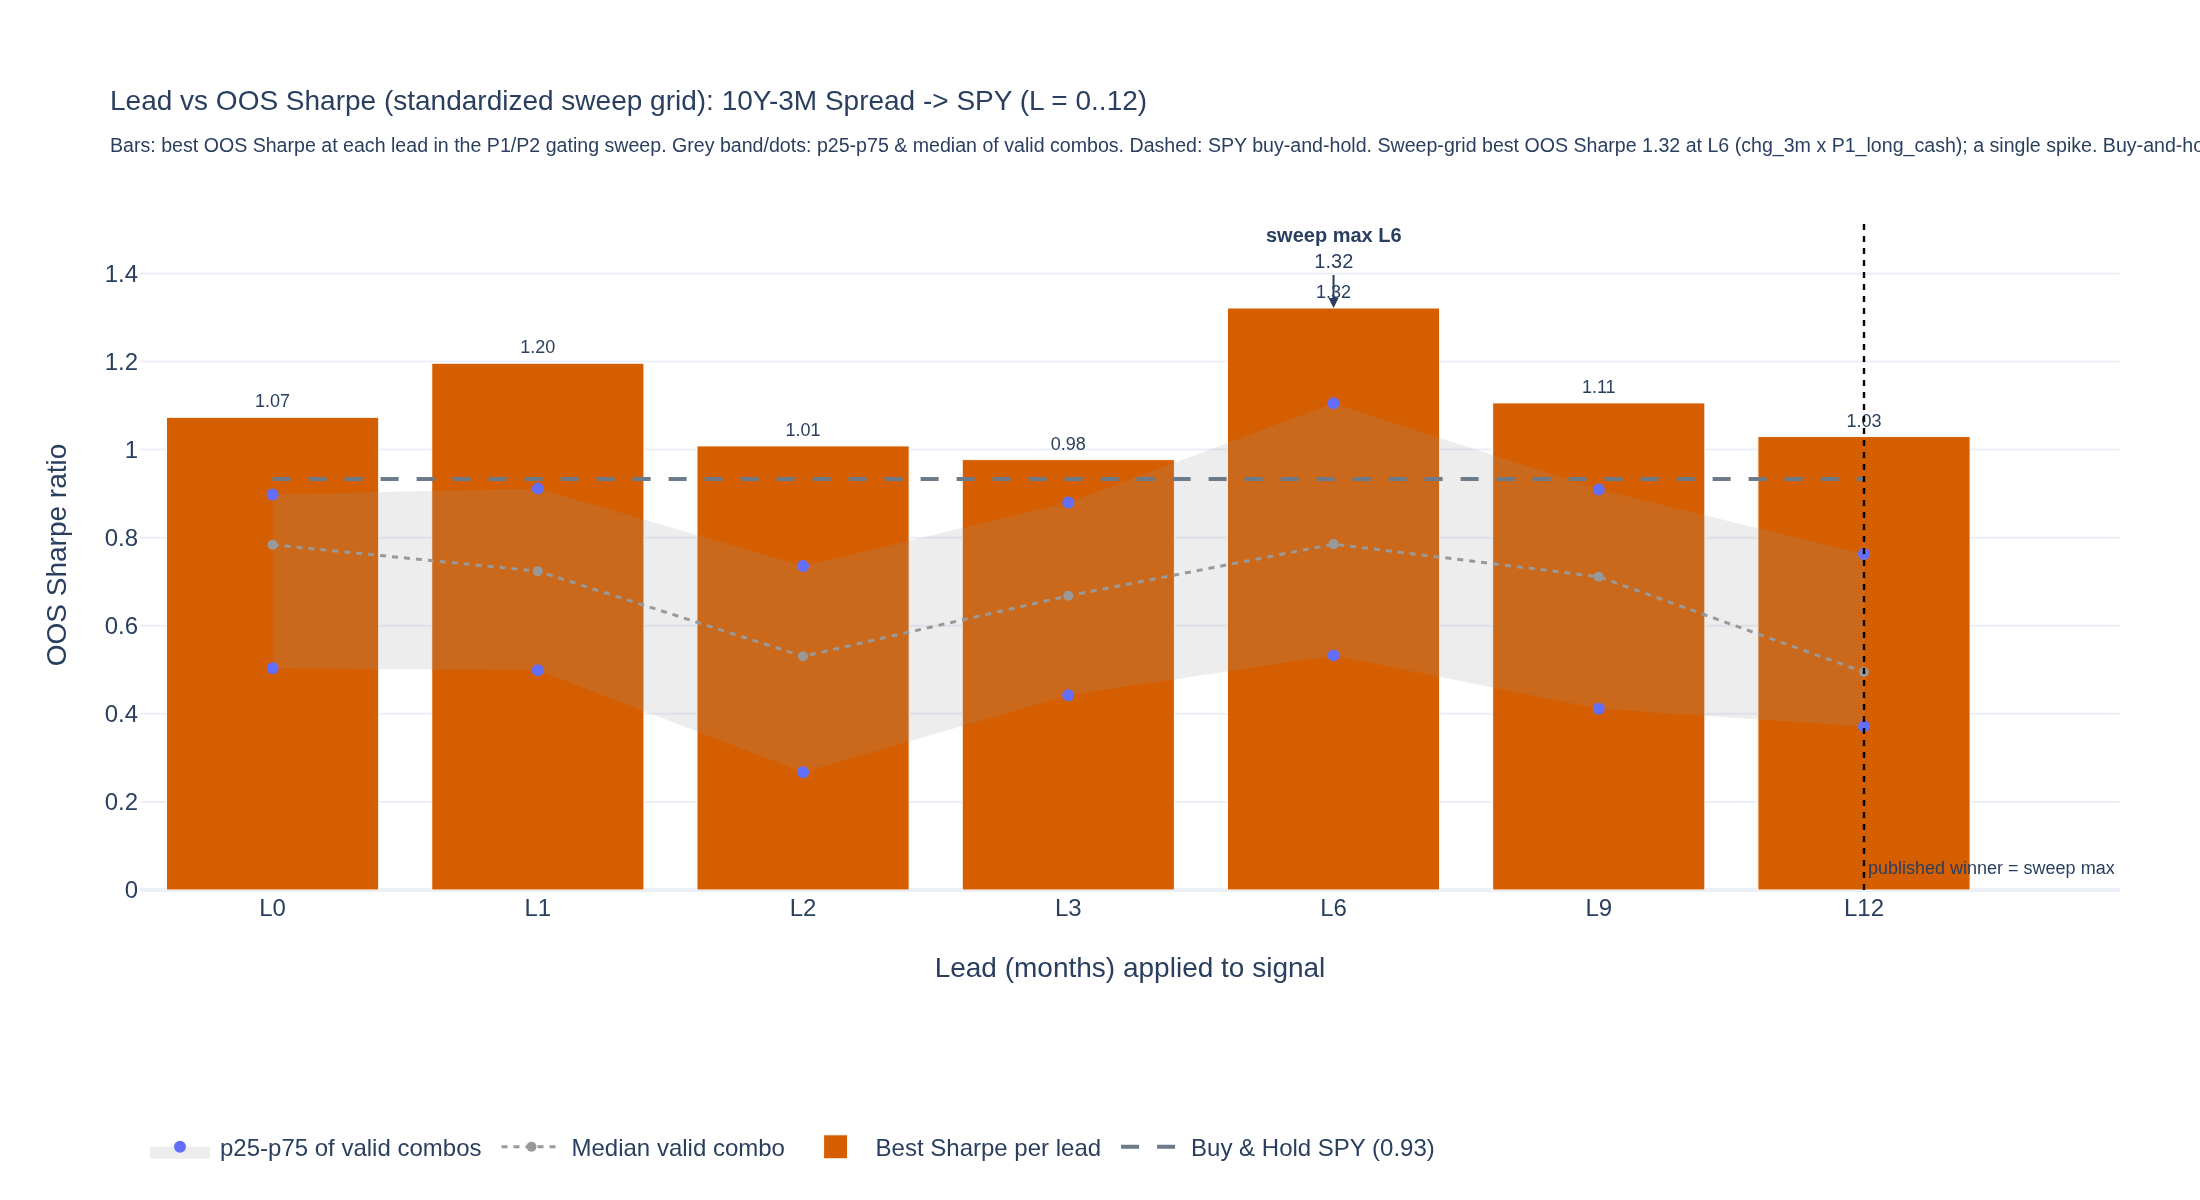
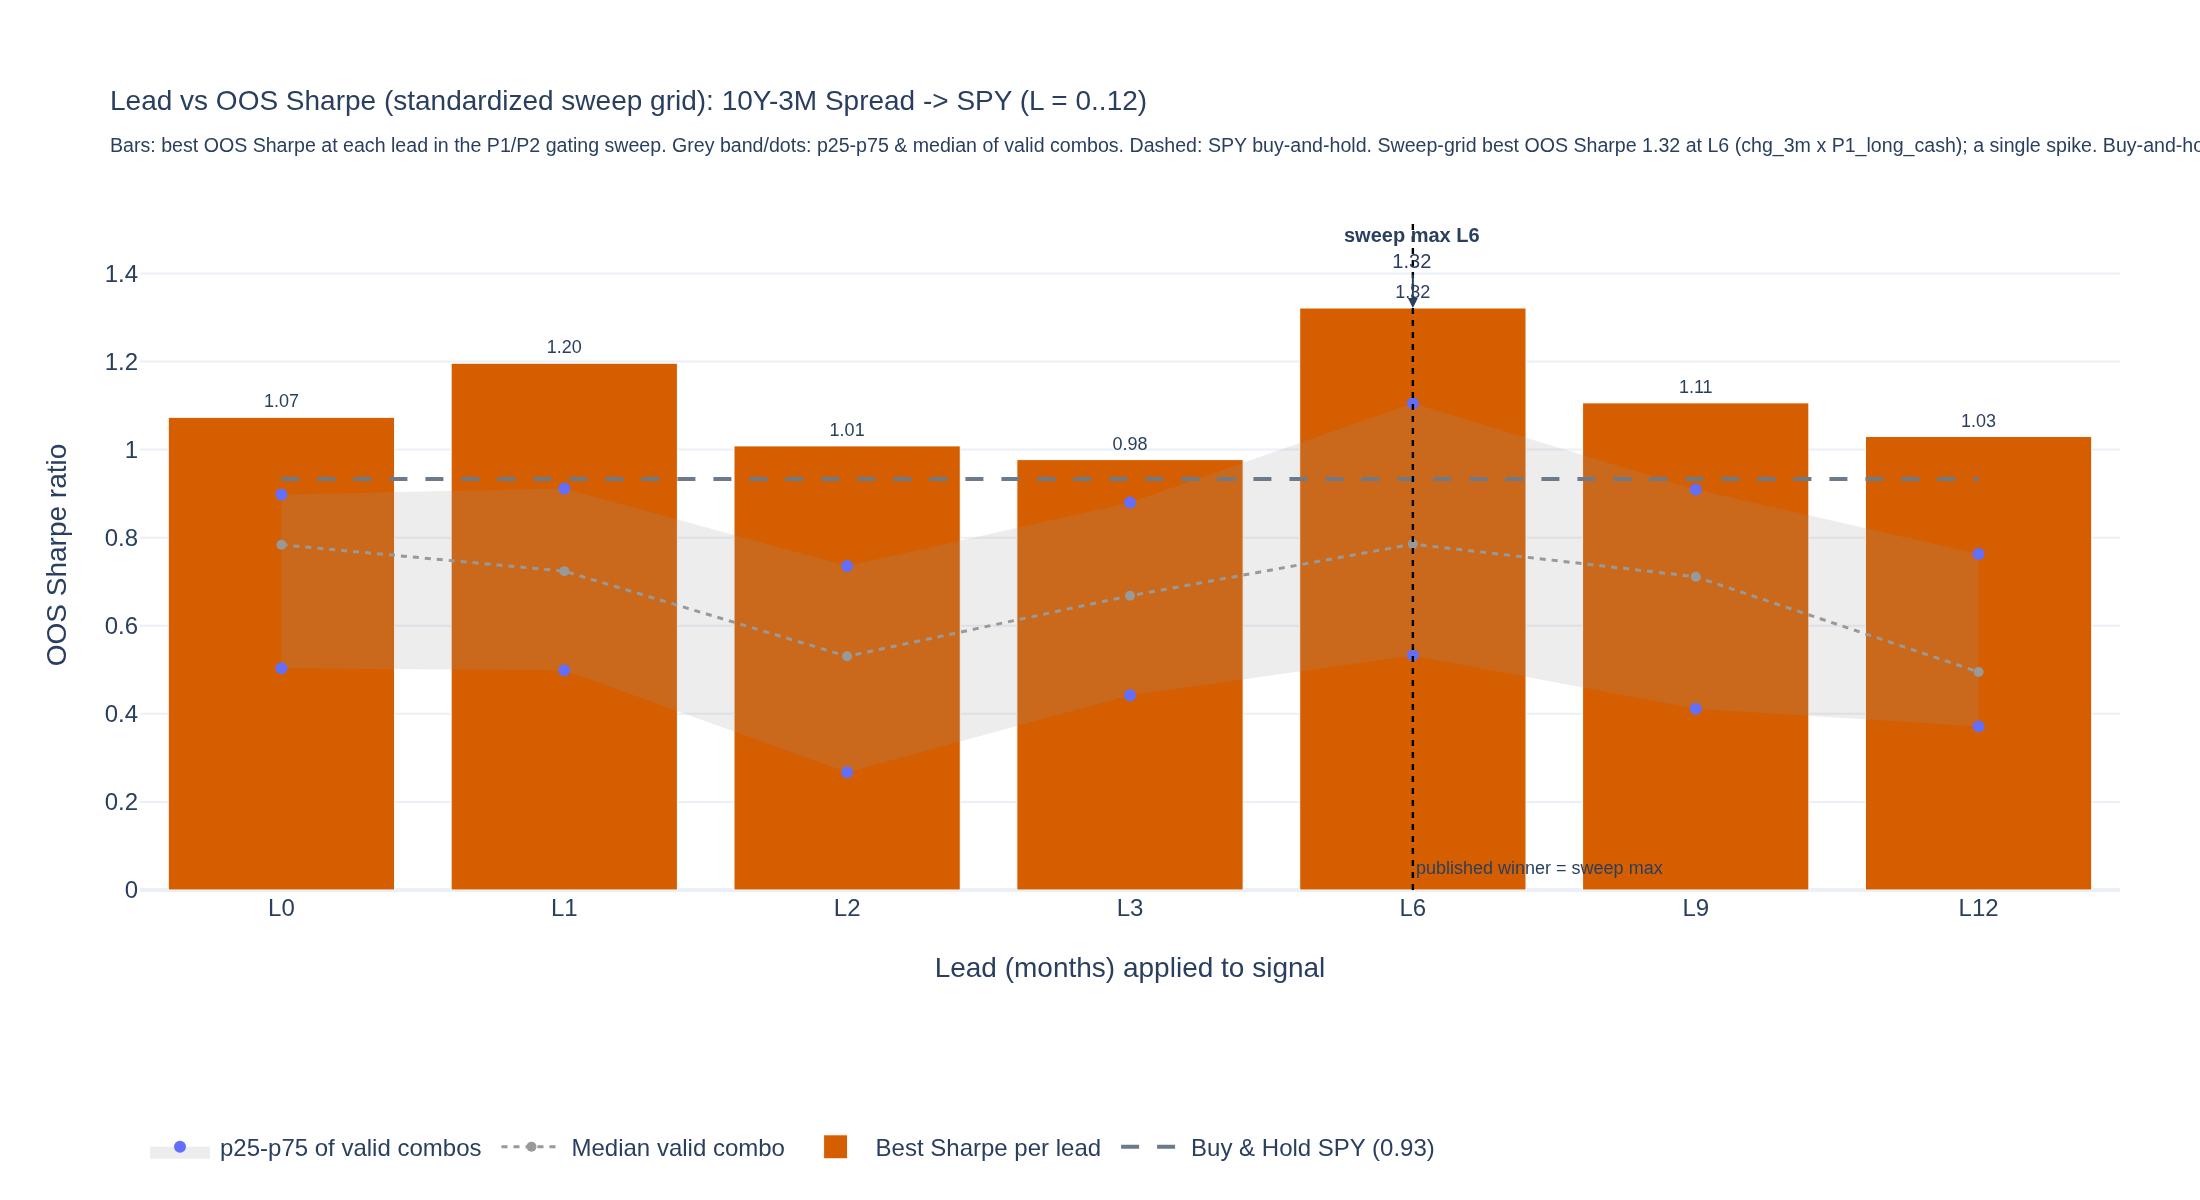
viz(lead-horizon): fix published-winner vline mispositioned on non-contiguous lead grids
Pre-existing categorical-axis bug in scripts/generate_lead_charts.py surfaced during
production verification: add_vline(x=int(win_lead)) anchors a numeric x to the category
INDEX, not the lead value. On t10y3m_spy's coarse grid [0,1,2,3,6,9,12], winner L6 (index 4)
drew the vline at index 6 = L12 — marker pointed at the wrong (far) lead.

Fix: position vline by leads.index(win_lead); guard winner_on_axis with 'win_lead in leads'
so a non-grid winner draws no phantom marker (surfaced via caption instead). For contiguous
grids index==value so all 12 other pairs' chart JSONs are byte-identical (md5-verified).
Only t10y3m_spy/lead_sharpe_distribution.json changed; bars still byte-match the CSV.

Changed region(s): [[0.1236, 0.185, 0.9582, 0.7708]]

diff --git a/scripts/generate_lead_charts.py b/scripts/generate_lead_charts.py
@@ -292,8 +292,11 @@ def build_sharpe_chart(pair, ind, tgt, bh, w):
     win_lead = w.get("lead_value", w.get("lead_months"))
     win_sharpe = w.get("oos_sharpe")
     win_unit = (w.get("lead_unit") or "months").rstrip("s")  # "day"/"month"
+    # Winner is markable only when it is an ACTUAL grid column. On non-contiguous
+    # sweep grids (e.g. t10y3m leads = [0,1,2,3,6,9,12]) a lead can be within 0..12
+    # yet not be a column — drawing a vline there would land at a phantom position.
     winner_on_axis = (win_lead is not None and win_unit == "month"
-                      and 0 <= int(win_lead) <= 12)
+                      and 0 <= int(win_lead) <= 12 and int(win_lead) in leads)
     winner_note = ""
     if win_lead is not None and win_sharpe is not None:
         if win_unit == "month":
@@ -340,7 +343,20 @@ def build_sharpe_chart(pair, ind, tgt, bh, w):
         same_lead = int(win_lead) == int(max_lead)
         win_text = ("published winner = sweep max"
                     if same_lead else f"published winner L{int(win_lead)}")
-        fig.add_vline(x=int(win_lead), line={"color": "#000", "dash": "dot", "width": 1.2},
+        # Position by CATEGORICAL LABEL (xlab at the winner's grid index), NOT the
+        # raw int. On a categorical x-axis add_vline(x=N) anchors to category INDEX
+        # N, so on a non-contiguous grid the raw lead value lands on the wrong bar
+        # (t10y3m winner L6 is index 4; x=6 would land on L12). Mirrors how the
+        # sweep-max arrow already positions via xlab[imax].
+        # Position by the winner's CATEGORICAL INDEX, not the raw lead value. On a
+        # categorical x-axis Plotly anchors a numeric x to the category INDEX, so
+        # the raw value lands on the wrong bar on a non-contiguous grid (t10y3m
+        # winner L6 is index 4; x=6 would land on L12). For contiguous grids
+        # index == value, so this is a no-op and the JSON is unchanged. Passing an
+        # int (the index) keeps add_vline's annotation helper working — a string
+        # label would make it raise on the numeric x-range average.
+        wxi = leads.index(int(win_lead))
+        fig.add_vline(x=wxi, line={"color": "#000", "dash": "dot", "width": 1.2},
                       annotation_text=win_text,
                       annotation_position="bottom right", annotation_font_size=9,
                       annotation_yshift=4)
